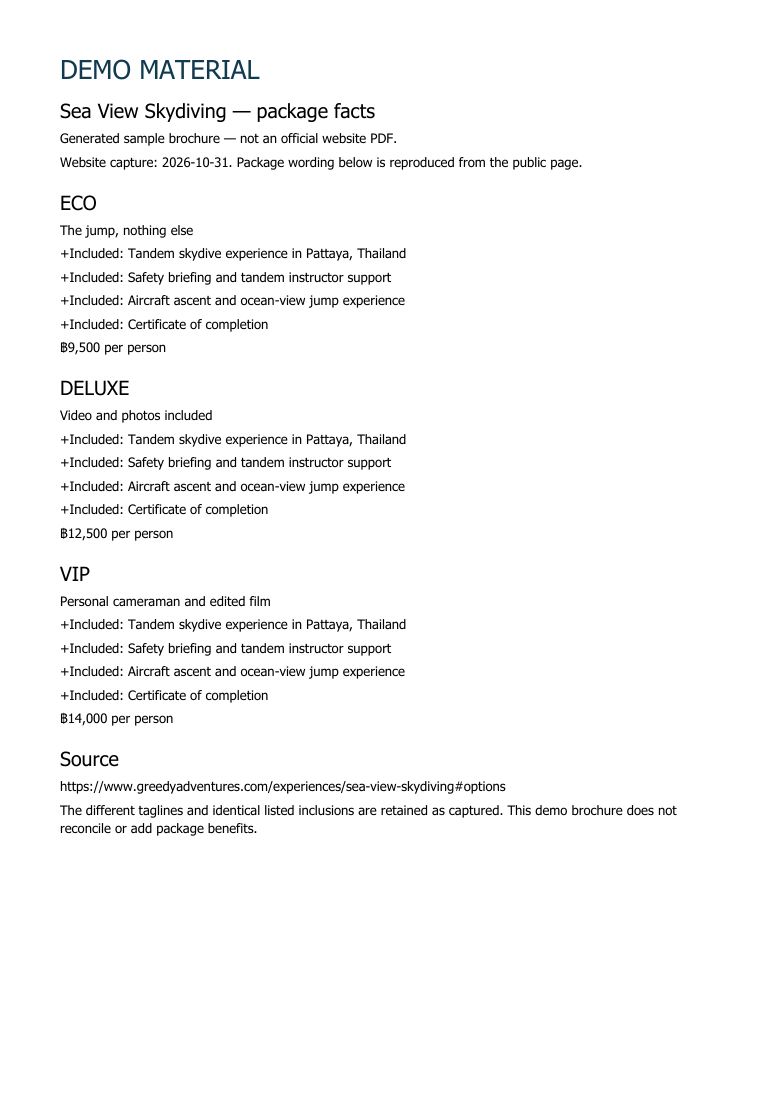
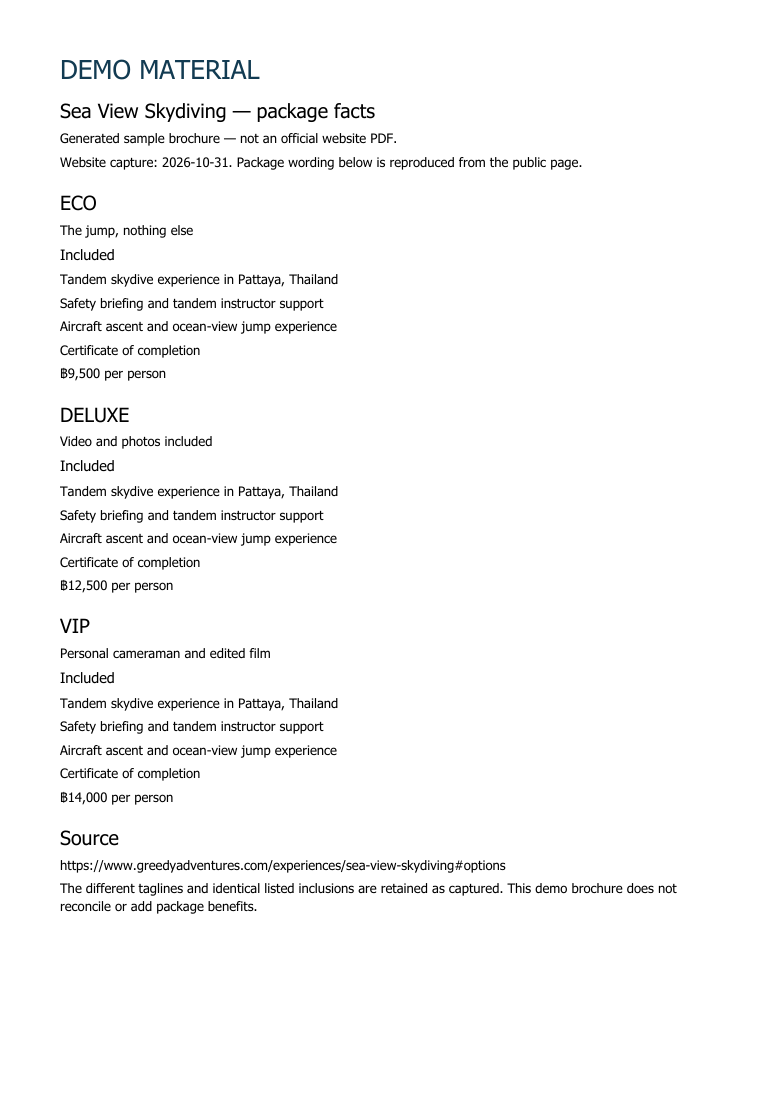
chore: clean captured text artifacts

Changed region(s): [[0.0617, 0.2164, 0.8638, 0.8345]]

diff --git a/tests/server/knowledge/sources.test.ts b/tests/server/knowledge/sources.test.ts
@@ -6,6 +6,13 @@ import {
 } from '../../../src/server/knowledge';
 import { groundedAnswer } from '../../../src/server/chat';
 import { GET } from '../../../src/app/api/knowledge/sources/route';
+
+function inclusions(text: string): string[] {
+  const lines = text.split('\n');
+  return lines
+    .slice(lines.indexOf('Included') + 1)
+    .filter((line) => !line.includes('per person'));
+}
 it('public sources expose real-knowledge and mixed-media flags', async () => {
   const body = await GET().json();
   expect(body.isDemo).toBe(false);
@@ -32,34 +39,39 @@ it('preserves package taglines and the identical actual inclusion lists', () => 
   const packages = ['ECO', 'DELUXE', 'VIP'].map((title) =>
     sources.find((s) => s.title === title)!,
   );
+  const expected = [
+    'Tandem skydive experience in Pattaya, Thailand',
+    'Safety briefing and tandem instructor support',
+    'Aircraft ascent and ocean-view jump experience',
+    'Certificate of completion',
+  ];
+  expect(packages.map((p) => inclusions(p.text))).toEqual([
+    expected,
+    expected,
+    expected,
+  ]);
   expect(
-    packages[0]!.text
-      .split('\n')
-      .filter((line) => line.startsWith('+Included:')),
-  ).toHaveLength(4);
-  expect(
-    packages.map((p) =>
-      p.text.split('\n').filter((line) => line.startsWith('+Included:')),
-    ),
-  ).toEqual(
-    Array.from({ length: 3 }, () =>
-      packages[0]!.text
-        .split('\n')
-        .filter((line) => line.startsWith('+Included:')),
-    ),
-  );
+    inclusions(sources.find((s) => s.title === "What's included")!.text),
+  ).toEqual(expected);
   expect(packages[0]!.text).toContain('The jump, nothing else');
   expect(packages[1]!.text).toContain('Video and photos included');
   expect(packages[2]!.text).toContain('Personal cameraman and edited film');
+});
+it('contains no decorative icons, markup, image alt text or stray capture symbols in any source', () => {
+  for (const source of sources) {
+    expect(source.text, source.title).not.toMatch(
+      /[+•●▪◦‣⁃\uFFFD\u200B-\u200D\uFEFF]/u,
+    );
+    expect(source.text, source.title).not.toMatch(
+      /<[^>]+>|&(?:#\w+|\w+);|!\[|\b(?:alt|aria-label)\s*=|^\s*(?:Image:|\[Button:)|Included:/im,
+    );
+  }
 });
 it('ECO photos context reports the page wording without manufacturing a media entitlement', () => {
   const chunks = retrieve('Do I get photos with ECO?');
   expect(chunks[0]?.source.title).toBe('ECO');
   const source = chunks[0]!.source;
-  const text = `ECO: "The jump, nothing else". Its listed inclusions are:\n${source.text
-    .split('\n')
-    .filter((line) => line.startsWith('+Included:'))
-    .join('\n')}\n[${source.url}]`;
+  const text = `ECO: "The jump, nothing else". Its listed inclusions are:\n${inclusions(source.text).join('\n')}\n[${source.url}]`;
   const accepted = groundedAnswer(text, chunks, []);
   expect(accepted).toContain('The jump, nothing else');
   expect(accepted).not.toMatch(/photos are (included|excluded)/i);

diff --git a/tests/server/knowledge/brochure.test.ts b/tests/server/knowledge/brochure.test.ts
@@ -1,0 +1,44 @@
+import { readFile } from 'node:fs/promises';
+import PDFParser from 'pdf2json';
+import { expect, it } from 'vitest';
+import { sources } from '../../../src/server/knowledge';
+
+it('the actual demo PDF contains exactly the source package names and prices, with clean inclusions', async () => {
+  const buffer = await readFile(
+    new URL('../../../public/demo/brochure.pdf', import.meta.url),
+  );
+  const parser = new PDFParser(null, true);
+  const text = await new Promise<string>((resolve, reject) => {
+    parser.on('pdfParser_dataError', reject);
+    parser.on('pdfParser_dataReady', () => resolve(parser.getRawTextContent()));
+    parser.parseBuffer(buffer, 0);
+  }).finally(() => parser.destroy());
+  const lines = text.split(/\r?\n/).map((line) => line.trim());
+  const expected = sources
+    .filter((source) => ['ECO', 'DELUXE', 'VIP'].includes(source.title))
+    .map((source) => ({
+      name: source.title,
+      price: source.text.match(/฿[\d,]+ per person/u)?.[0],
+    }))
+    .sort((a, b) => a.name.localeCompare(b.name));
+  const actual = lines
+    .flatMap((line, index) => {
+      if (!['ECO', 'DELUXE', 'VIP'].includes(line)) return [];
+      const nextHeading = lines.findIndex(
+        (next, nextIndex) =>
+          nextIndex > index &&
+          ['ECO', 'DELUXE', 'VIP', 'Source'].includes(next),
+      );
+      const prices = lines
+        .slice(index + 1, nextHeading)
+        .filter((row) => /฿[\d,]+ per person/u.test(row));
+      expect(prices).toHaveLength(1);
+      return [{ name: line, price: prices[0] }];
+    })
+    .sort((a, b) => a.name.localeCompare(b.name));
+  expect(expected).toHaveLength(3);
+  expect(actual).toEqual(expected);
+  expect(lines.filter((line) => line === 'Included')).toHaveLength(3);
+  expect(text).toContain('DEMO MATERIAL');
+  expect(text).not.toMatch(/[+•●▪◦‣⁃\uFFFD]|Included:/u);
+});

diff --git a/scripts/build-brochure.py b/scripts/build-brochure.py
@@ -16,6 +16,7 @@ if 0x0e3f not in pdfmetrics.getFont('BrochureBody').face.charToGlyph:
 body = ParagraphStyle('Body', fontName='BrochureBody', fontSize=10, leading=14, spaceAfter=4)
 title = ParagraphStyle('Title', parent=body, fontSize=20, leading=25, textColor=colors.HexColor('#123B52'), spaceAfter=10)
 heading = ParagraphStyle('Heading', parent=body, fontSize=15, leading=19, spaceAfter=5)
+included_heading = ParagraphStyle('Included', parent=body, fontSize=11, leading=15, spaceBefore=4, spaceAfter=5)
 output = Path('public/demo/brochure.pdf')
 output.parent.mkdir(parents=True, exist_ok=True)
 story = [Paragraph('DEMO MATERIAL', title), Paragraph('Sea View Skydiving — package facts', heading), Paragraph('Generated sample brochure — not an official website PDF.', body), Paragraph('Website capture: 2026-10-31. Package wording below is reproduced from the public page.', body), Spacer(1, 10)]
@@ -23,7 +24,7 @@ for name in ('eco', 'deluxe', 'vip'):
     source = json.loads(Path(f'data/knowledge/{name}.json').read_text(encoding='utf-8'))
     lines = source['text'].splitlines()
     block = [Paragraph(escape(lines[0]), heading)]
-    block += [Paragraph(escape(line), body) for line in lines[1:]]
+    block += [Paragraph(escape(line), included_heading if line == 'Included' else body) for line in lines[1:]]
     block.append(Spacer(1, 10))
     story.append(KeepTogether(block))
 story += [Paragraph('Source', heading), Paragraph('https://www.greedyadventures.com/experiences/sea-view-skydiving#options', body), Paragraph('The different taglines and identical listed inclusions are retained as captured. This demo brochure does not reconcile or add package benefits.', body)]

diff --git a/scripts/build-website-sources.py b/scripts/build-website-sources.py
@@ -51,6 +51,21 @@ def clean(text):
     return re.sub(r'\s+', ' ', text).strip()
 
 
+def source_lines(lines, included_section=False):
+    result = []
+    if included_section:
+        result.append('Included')
+    for line in lines:
+        line = re.sub(r'^[+•●▪◦‣⁃]+\s*', '', line).strip()
+        if line.startswith('Included:'):
+            if 'Included' not in result:
+                result.append('Included')
+            line = line.removeprefix('Included:').strip()
+        if line:
+            result.append(line)
+    return result
+
+
 roots = {}
 hashes = {}
 for name in ('experience', 'cancellations'):
@@ -66,7 +81,7 @@ sources = []
 
 
 def add(name, title, url, lines):
-    record = dict(title=title, url=url, capturedAt='2026-10-31', text='\n'.join(lines), isDemo=False)
+    record = dict(title=title, url=url, capturedAt='2026-10-31', text='\n'.join(source_lines(lines, name == 'included')), isDemo=False)
     path = Path('data/knowledge') / f'{name}.json'
     path.parent.mkdir(parents=True, exist_ok=True)
     path.write_text(json.dumps(record, ensure_ascii=False, indent=2)+'\n', encoding='utf-8')

diff --git a/docs/captured-text-cleanup-report.md b/docs/captured-text-cleanup-report.md
@@ -1,0 +1,88 @@
+# Captured-text cleanup — 2026-10-31
+
+Audited all 15 source JSON records. Removed decorative leading plus/bullet icons from six records (ECO, DELUXE, VIP, inclusions, jump facts and location), consolidated the repeated inclusion labels into a single `Included` heading, and retained the original inclusion sentences. No other markup, image alt text or stray symbols were found. All factual wording, package taglines, amounts, source URLs, capture dates and flags are unchanged. The offline capture script now removes these presentation artifacts at their origin.
+
+Regenerated `public/demo/brochure.pdf` from those cleaned records with its DEMO MATERIAL title intact. Rendered the one-page PDF with Poppler and visually checked text, spacing and baht glyphs; refreshed both saved previews. Added an artifact regression across the entire source corpus and an actual PDF extraction test comparing all three package names and prices with the package sections. The only new package is test-only `pdf2json` 4.0.2; its declared Node minimum is compatible with this project's minimum. It has no dependencies. The install audit retained the baseline 17 moderate findings; no runtime package changes.
+
+Refreshed the public sources and affected OFFLINE MOCK route examples. Pure retrieval still passes 35/35 questions with seven no-matches and threshold 1. No server logic, API shapes, stream protocol, provider configuration or deployment changes. No additional live calls or website/video requests were made.
+
+## Previous live answers, verbatim
+
+Read directly from the unchanged `examples/real-knowledge/live-google.json` capture from the preceding run. These are saved LIVE Google responses, not reruns or mock output.
+
+Question: How much is the VIP package?
+
+```text
+The VIP package is ฿14,000 per person. [https://www.greedyadventures.com/experiences/sea-view-skydiving#options]
+```
+
+HTTP 200; guard accepted; one provider call; provider latency 1491 ms; handler latency 1552 ms.
+
+Question: What if it rains?
+
+```text
+Skydiving runs only in safe conditions, and the person on the ground decides what is safe. Diving is called on sea state and visibility. If your load, flight, or dive is held for weather you can wait for the next window the same day at no cost, move to any other date at no cost, or take a full refund of anything you have paid. There is no charge and no admin fee for a weather move. It is the most common reason an activity does not run and it is nobody's fault. (https://www.greedyadventures.com/cancellations#page-content)
+```
+
+HTTP 200; guard accepted; one provider call; provider latency 2174 ms; handler latency 2187 ms.
+
+## Actual required command output
+
+```text
+> assignment@0.1.0 typecheck
+> next typegen && tsc --noEmit
+
+Generating route types...
+✓ Types generated successfully
+
+> assignment@0.1.0 lint
+> eslint . --max-warnings=0
+
+> assignment@0.1.0 test
+> vitest run
+
+ RUN  v5.0.5 C:/assignment
+
+ Test Files  15 passed (15)
+      Tests  110 passed (110)
+   Start at  14:10:51
+   Duration  1.28s (import 66%, transform 21%, tests 6%, setup 4%, worker 2%)
+
+> assignment@0.1.0 build
+> next build
+
+▲ Next.js 16.4.3 (Turbopack)
+- Environments: .env.local
+✓ Running next.config.ts took 31ms
+
+  Creating an optimized production build ...
+✓ Compiled successfully in 537ms
+  Running TypeScript ...
+  Finished TypeScript in 1615ms ...
+  Collecting page data using 7 workers ...
+  Generating static pages using 7 workers (0/6) ...
+  Generating static pages using 7 workers (1/6)
+  Generating static pages using 7 workers (2/6)
+  Generating static pages using 7 workers (4/6)
+✓ Generating static pages using 7 workers (6/6) in 668ms
+  Finalizing page optimization ...
+
+Route (app)
+┌ ○ /
+├ ○ /_not-found
+├ ƒ /api/chat
+├ ƒ /api/knowledge/sources
+└ ƒ /api/knowledge/trace
+
+○  (Static)   prerendered as static content
+ƒ  (Dynamic)  server-rendered on demand
+```
+
+All four commands completed successfully. Additional offline capture output:
+
+```text
+Captured public sources, four OFFLINE MOCK trace responses and media UIMessage SSE; zero provider calls.
+Retrieval quality: 35/35 passed; 7 required no-matches; threshold=1
+```
+
+The `npx` registry lookup was unavailable in the sandbox (ENOTFOUND), so these capture scripts were executed successfully with the already cached tsx CLI; no script behavior was changed. Assumption: decorative icons and repeated presentation labels are not source facts. The retained prior live capture is historical evidence and does not establish a fresh provider result after cleanup.

diff --git a/docs/testing.md b/docs/testing.md
@@ -21,3 +21,11 @@ The bounded live script is `npx --yes tsx --env-file=.env.local scripts/real-kno
 Two pages were fetched once manually into .next/real-capture, then scripts/build-website-sources.py extracted only the requested sections without network traversal. source-capture.json records hashes/anchors/poster. Exactly one video HEAD check is recorded in video-head.json; do not repeat it as part of automated tests or download the video.
 
 Generate the demo PDF with `python scripts/build-brochure.py <path-to-Unicode-font-with-baht-glyph>`. ReportLab is an authoring dependency, not an application package. Render with pdftoppm and inspect the page; a font-glyph assertion prevents silently missing baht symbols. The current brochure was rendered and reviewed. No browser player/embed test or deployment was performed. Old fictional captures/scripts have explicit supersession notices, not current test data.
+
+## Captured-text and brochure regression checks
+
+`npm test -- tests/server/knowledge/sources.test.ts tests/server/knowledge/brochure.test.ts` checks all 15 source texts for decorative bullet/plus icons, replacement/invisible characters, HTML/entities, image markup and alt-label artifacts. It also asserts the four original inclusion sentences beneath an `Included` heading. The capture script removes the decorative prefixes before storing text.
+
+The PDF test reads the committed binary with the test-only `pdf2json` parser (4.0.2, compatible with the project's Node minimum; no runtime import). It extracts each actual package heading and price and compares them with the source sections, requires three `Included` headings and the demo label, and rejects icon artifacts. It does not compare against a generator-produced sidecar. Regenerate the PDF after editing package data, then run this command; visual rendering remains a separate authoring check.
+
+The cleanup made no additional live calls. The previous Google answers, call counts and timing remain unchanged in `examples/real-knowledge/live-google.json` and are reproduced verbatim in `captured-text-cleanup-report.md`. Refreshed sources/trace/media examples are explicitly OFFLINE MOCK.

diff --git a/docs/knowledge-and-media.md b/docs/knowledge-and-media.md
@@ -24,3 +24,7 @@ UI badges should use source/media flags; mode:mock describes generation, not whe
 scripts/build-website-sources.py has no network calls and reads the two manually fetched HTML files under .next/real-capture; it extracts only selected sections using HTMLParser, not a crawler. scripts/build-brochure.py takes a font path argument and uses the generated JSON facts. The original HTML is not committed. Capture metadata includes page hashes and observed anchors/poster. Re-fetch manually before refreshing a dated corpus; do not imply that a static capture remains current forever.
 
 Old fictional data records were removed; old reports/response files were replaced by explicit supersession notices to avoid misleading current readers. Their previous versions remain in Git history. No history rewrite was performed. Source capture, current response examples, quality scores and video HEAD evidence are under docs/examples/real-knowledge/.
+
+# Captured-text presentation cleanup (2026-10-31)
+
+Decorative leading `+` and `•` icons were removed from the captured package, inclusions, jump-facts and location text. Package inclusions now appear as plain sentences beneath one `Included` heading. All 15 JSON sections were checked for stray markup and image alt text; no other such artifacts were found. Facts, taglines, prices, URLs, dates and provenance flags are unchanged. The capture authoring script now performs this presentation cleanup, and the demo-labelled brochure was regenerated from the cleaned package sections. Its extracted names and prices are checked against those sections in the offline suite.

diff --git a/public/demo/README.md b/public/demo/README.md
@@ -2,6 +2,8 @@
 
 brochure.pdf is titled DEMO MATERIAL, generated from the real package section captured on 2026-10-31. It is not an official website PDF. Its registry record is isDemo:true.
 
+Inclusions use plain text under an Included heading; decorative website icons are omitted. The offline PDF test checks the actual PDF's package names and prices against the captured package sections. Regenerate with scripts/build-brochure.py after package edits, then render and inspect it.
+
 The video is not stored here. Its actual page URL is https://www.greedyadventures.com/greedy/films/sea-view-studio-hero.mp4 (isDemo:false). One HEAD returned 200 video/mp4. Embedding was not tested; keep an external-link fallback. The observed poster is https://www.greedyadventures.com/greedy/films/sea-view-studio-hero-poster.jpg.
 
 Source: https://www.greedyadventures.com/experiences/sea-view-skydiving#options. No inferred package benefits were added.

diff --git a/docs/progress-log.md b/docs/progress-log.md
@@ -58,3 +58,7 @@ Route (app)
 ├ ƒ /api/knowledge/sources
 └ ƒ /api/knowledge/trace
 ```
+
+# Captured-text cleanup — 2026-10-31
+
+Completed the narrowly approved icon cleanup: audited 15 JSON sections, cleaned six, fixed the static authoring extractor, regenerated and rendered the demo PDF, and refreshed affected offline examples. Added corpus artifact and actual-PDF package/price regression tests. All facts and API behavior remain unchanged. No new live calls and no deployment. Previous VIP/rain raw answers are reproduced verbatim with guard/count/latency in [the cleanup report](captured-text-cleanup-report.md), which also pastes the actual typecheck, lint, test (110/110) and build output. Retrieval quality remains 35/35. The only added dependency is test-only pdf2json; no runtime dependency changes.
